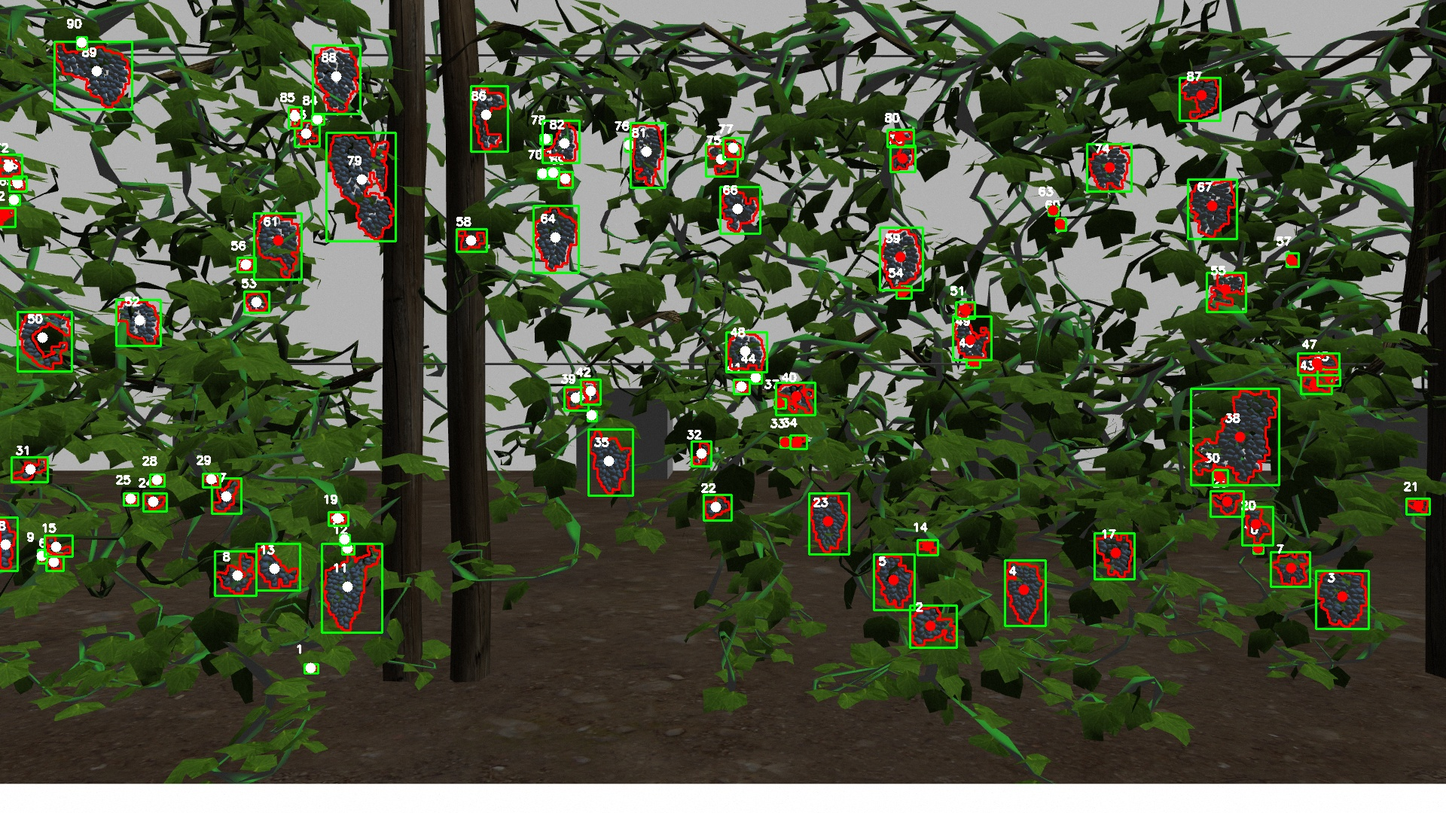
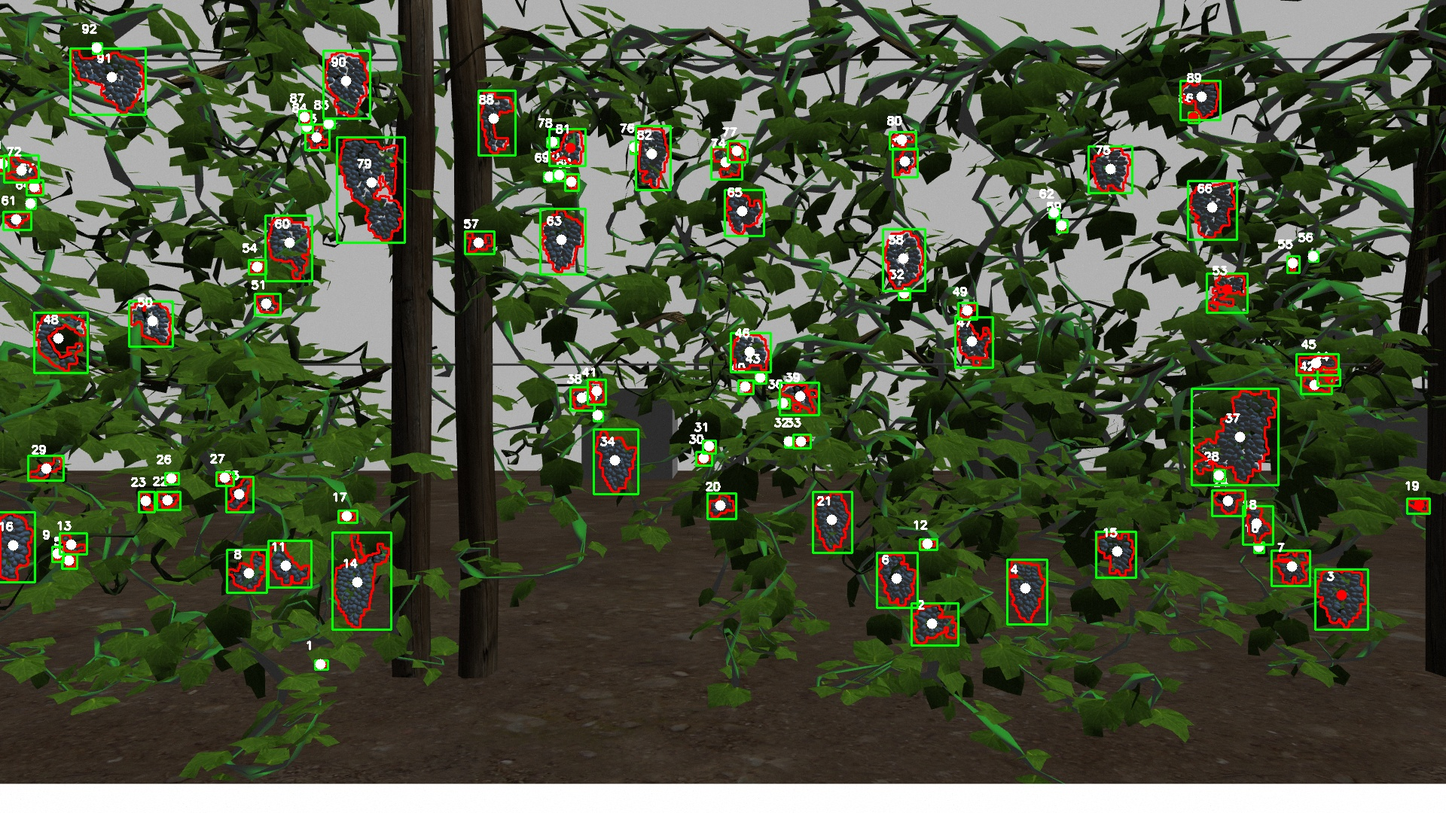
Readme 100 word description

diff --git a/andy_ass1/scripts/camera.py b/andy_ass1/scripts/camera.py
@@ -148,6 +148,8 @@ class findBunches:
         pc.header.frame_id = "map"
         cnts = cv2.findContours(self.erosion, cv2.RETR_EXTERNAL, cv2.CHAIN_APPROX_SIMPLE)
         cnts = cnts[0] if len(cnts) == 2 else cnts[1]
+
+        # Rather arbitary area, small enough to catch almost totally occluded bunches, big enough not to see rouge pixel colours as a bunch 
         min_area = 50
         self.num_bunches = 0
         for c in cnts:
@@ -175,8 +177,6 @@ class findBunches:
                         depth_coords = (self.image_depth.shape[0] / 2 + ((cY+v[0]) - self.orig_image.shape[0] / 2) * self.color2depth_aspect, 
                             self.image_depth.shape[1] / 2 + ((cX+v[1]) - self.orig_image.shape[1] / 2) * self.color2depth_aspect)
 
-                        if cY /2 > 511:
-                            continue
 
                         # get the depth reading at the centroid location
                         depth_value = self.image_depth[int(depth_coords[0]), int(depth_coords[1])] # you might need to do some boundary checking first!

diff --git a/README.md b/README.md
@@ -1,9 +1,14 @@
 # PER18684092 CMP9767M-2223 Robot Programming Assignment
 
+## Counting of bunches of grapes
+
+## Summary of solution
+
+This solution uses a pre-made map of the environment along with a topological map to first localise the robot, using AMCL, allowing the robot to scan objects in all directions, taking approx. 3.5 minutes. The robot then navigates to the grapevine detecting and counting bunches of grapes using camera imaging, OpenCV and coloured contoured blob detection. It plots the detected bunches using a pointcloud with locations determined by a depth camera and transformed to the map position within RVIZ. The yield is calculated allowing an approximation for any size field. 
+
 ## Running the simulation
 
 - roslaunch andy_ass1 ass1.launch
 
-## Description
+## 
 
-This solution uses a pre-made map of the environment along with a topological map to first localise the robot, using AMCL, taking approx. 3.5 minutes. The robot then navigates to the grapevine detecting and counting bunches of grapes using OpenCV and coloured contoured blob detection. It plots the bunches using a pointcloud within RVIZ and calculated the approx. yeild. 
